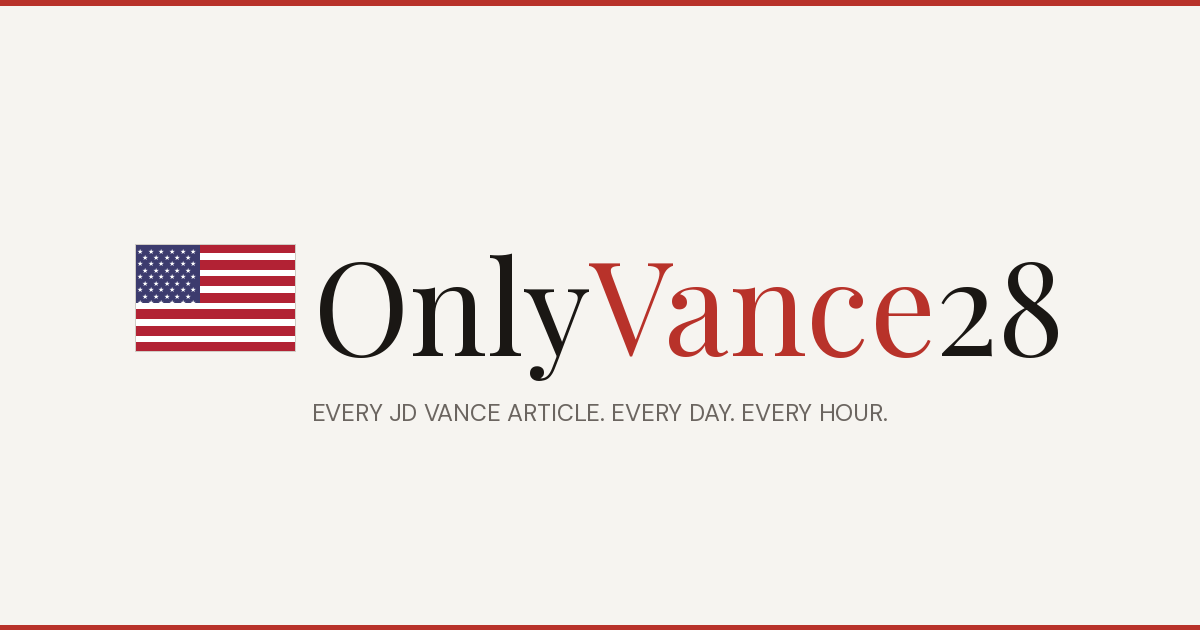
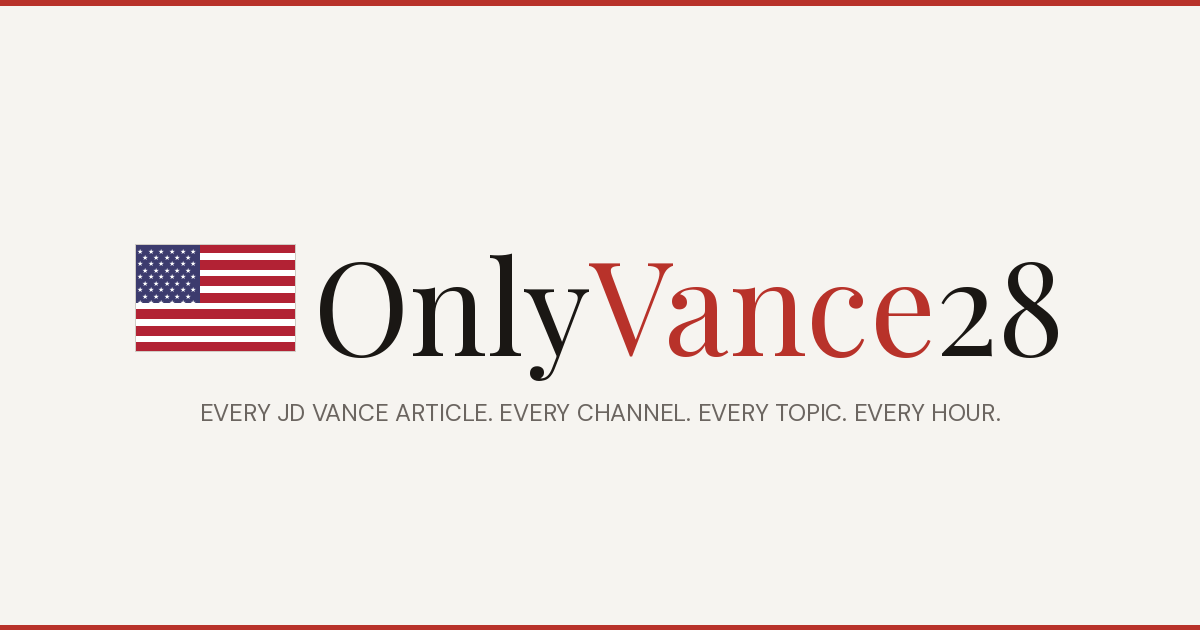
Update tagline everywhere: Every JD Vance article. Every channel. Every topic. Every hour.

Changed region(s): [[0.1542, 0.6333, 0.8325, 0.6937]]

diff --git a/build.py b/build.py
@@ -1232,7 +1232,7 @@ def generate_html(articles, build_time, social_posts=None, today=None, daily_dat
                     <div class="logo-flag"><svg viewBox="0 0 60 40" xmlns="http://www.w3.org/2000/svg"><rect width="60" height="40" fill="#fff"/><g fill="#B22234"><rect y="0" width="60" height="3.08"/><rect y="6.15" width="60" height="3.08"/><rect y="12.31" width="60" height="3.08"/><rect y="18.46" width="60" height="3.08"/><rect y="24.62" width="60" height="3.08"/><rect y="30.77" width="60" height="3.08"/><rect y="36.92" width="60" height="3.08"/></g><rect width="24" height="21.54" fill="#3C3B6E"/><g fill="#fff" font-size="2.8" font-family="sans-serif" text-anchor="middle"><text x="2.4" y="3.5">&#9733;</text><text x="7.2" y="3.5">&#9733;</text><text x="12" y="3.5">&#9733;</text><text x="16.8" y="3.5">&#9733;</text><text x="21.6" y="3.5">&#9733;</text><text x="4.8" y="7">&#9733;</text><text x="9.6" y="7">&#9733;</text><text x="14.4" y="7">&#9733;</text><text x="19.2" y="7">&#9733;</text><text x="2.4" y="10.5">&#9733;</text><text x="7.2" y="10.5">&#9733;</text><text x="12" y="10.5">&#9733;</text><text x="16.8" y="10.5">&#9733;</text><text x="21.6" y="10.5">&#9733;</text><text x="4.8" y="14">&#9733;</text><text x="9.6" y="14">&#9733;</text><text x="14.4" y="14">&#9733;</text><text x="19.2" y="14">&#9733;</text><text x="2.4" y="17.5">&#9733;</text><text x="7.2" y="17.5">&#9733;</text><text x="12" y="17.5">&#9733;</text><text x="16.8" y="17.5">&#9733;</text><text x="21.6" y="17.5">&#9733;</text><text x="4.8" y="21">&#9733;</text><text x="9.6" y="21">&#9733;</text><text x="14.4" y="21">&#9733;</text><text x="19.2" y="21">&#9733;</text></g></svg></div>
                     <h1 class="logo">Only<span class="a">Vance</span>28</h1>
                 </div>
-                <p class="tagline">Every JD Vance article. Every day. Every hour.</p>
+                <p class="tagline">Every JD Vance article. Every channel. Every topic. Every hour.</p>
             </div>
             <div class="hdr-right">
                 <div class="cta-row">
